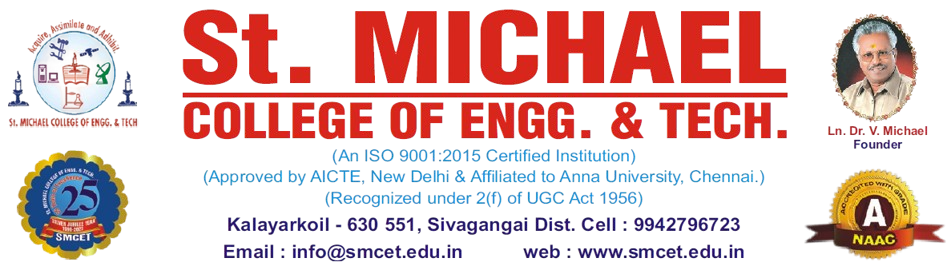
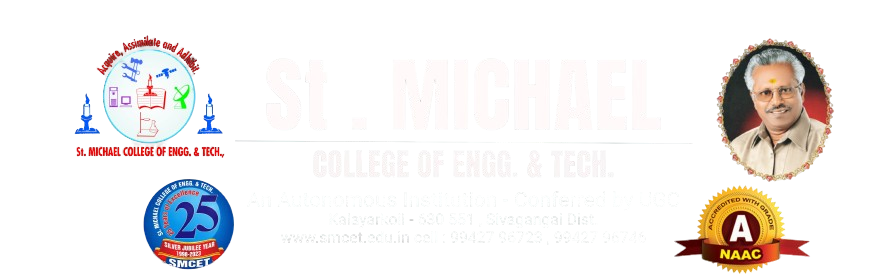
changed

diff --git a/src/pages/Home.jsx b/src/pages/Home.jsx
@@ -2,6 +2,7 @@ import { useState } from 'react';
 import { Link } from 'react-router-dom';
 import DomainCard from '../components/DomainCard';
 import TeamModal from '../components/TeamModal';
+import CollegeHeader from '../components/CollegeHeader';
 import problemData from '../data/problemStatements.json';
 
 const Home = () => {
@@ -58,14 +59,19 @@ const Home = () => {
     return (
         <div className="min-h-screen">
             {/* Hero Section */}
-            <section className="relative h-screen flex items-start justify-center overflow-hidden pt-8">
+            <section className="relative min-h-screen flex flex-col items-center justify-start overflow-hidden">
                 {/* Background with gradient overlay */}
                 <div className="absolute inset-0 bg-gradient-to-br from-blue-900 via-purple-900 to-violet-900">
[1 lines of base64/hex data omitted]
                 </div>
 
+                {/* College Header - merged inside hero gradient */}
+                <div className="relative z-10 w-full">
+                    <CollegeHeader />
+                </div>
+
                 {/* Content */}
-                <div className="relative z-10 text-center px-4 fade-in pb-20 md:py-0">
+                <div className="relative z-10 text-center px-4 fade-in pb-20 pt-8 md:pt-4">
                     <div className="flex flex-col md:flex-row items-center justify-center gap-4 md:gap-8 mb-6 md:mb-8">
                         <img src="/logo.png" alt="Ignite Logo" className="w-20 h-20 md:w-40 md:h-40 animate-bounce-slow glow-logo" />
                         <h1 className="text-xl md:text-7xl font-orbitron font-black glow-text leading-tight">

diff --git a/src/components/CollegeHeader.jsx b/src/components/CollegeHeader.jsx
@@ -2,11 +2,12 @@ import React from 'react';
 
 const CollegeHeader = () => {
     return (
-        <div className="w-full bg-gradient-to-br from-blue-900 via-purple-900 to-violet-900 flex justify-center items-center">
+        <div className="w-full flex justify-center items-center">
             <img
                 src="/college-header.png"
                 alt="St. Michael College of Engineering & Technology"
-                className="w-full h-auto max-h-[140px] object-contain"
+                className="h-auto object-contain mx-auto"
+                style={{ display: 'block', maxHeight: '180px', width: 'auto', maxWidth: '100%' }}
             />
         </div>
     );

diff --git a/src/App.jsx b/src/App.jsx
@@ -4,14 +4,12 @@ import DomainPage from './pages/DomainPage';
 import StaffPage from './pages/StaffPage';
 import Navbar from './components/Navbar';
 import Footer from './components/Footer';
-import CollegeHeader from './components/CollegeHeader';
 
 function App() {
     return (
         <Router>
             <div className="App">
                 <Navbar />
-                <CollegeHeader />
                 <Routes>
                     <Route path="/" element={<Home />} />
                     <Route path="/domain/:domainName" element={<DomainPage />} />
